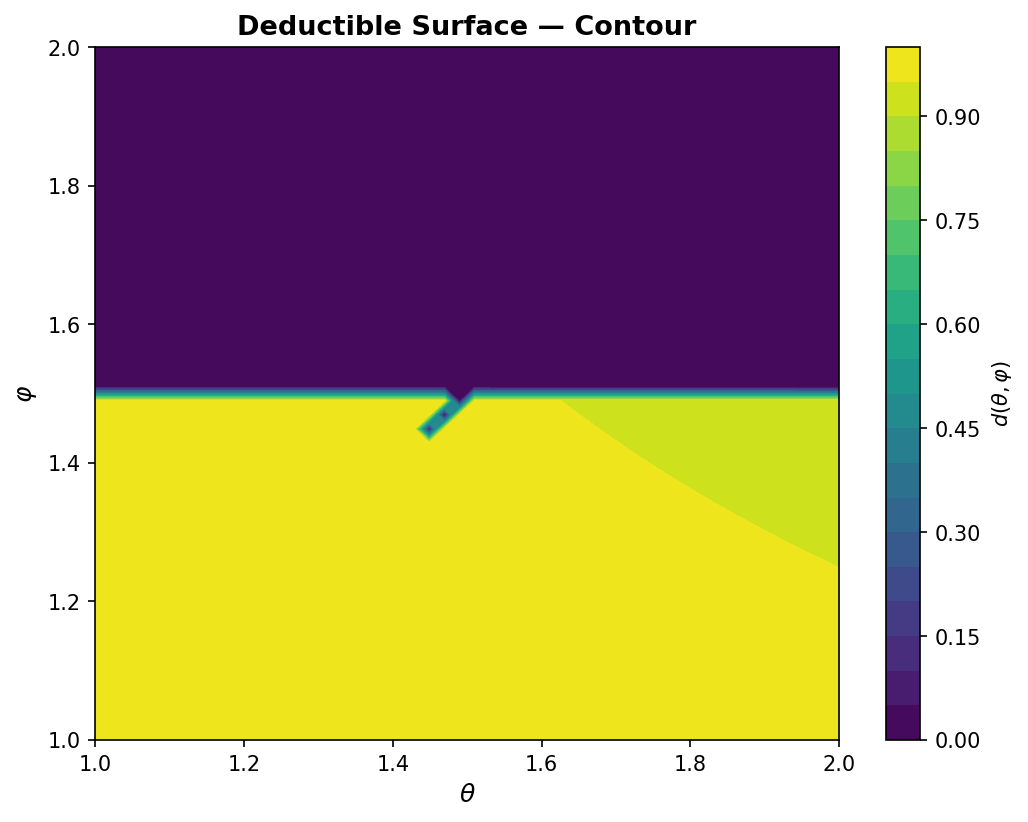
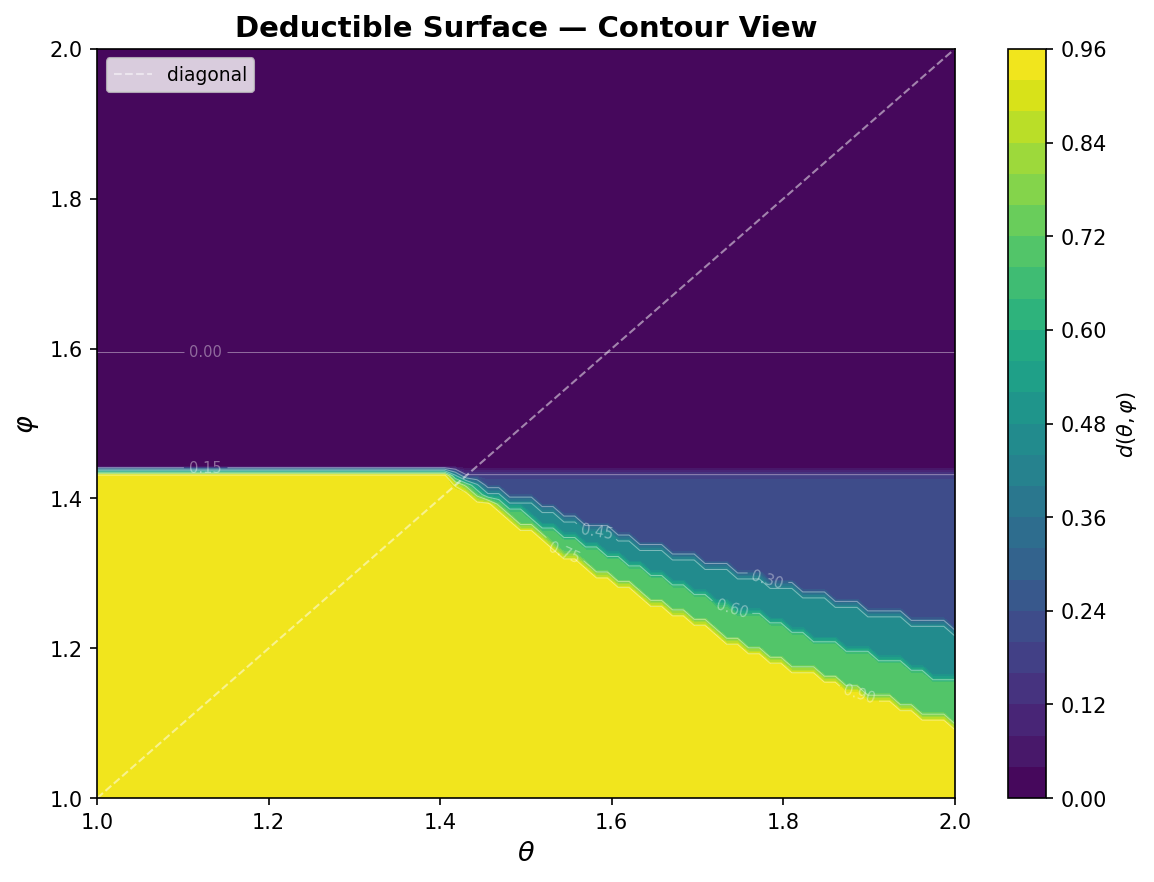
Fix surface reconstruction: proper max-t formula, monotone enforcement
reconstruct_surface now uses:
  t*(theta,phi) = max{t : F1(theta,t) <= phi}

This guarantees d(theta,phi) is non-increasing in both dimensions.
- Grid-based search instead of bisect (handles non-monotone F1)
- Monotone projection as post-processing cleanup
- Removed unused scipy.optimize.bisect import

diff --git a/canonical.py b/canonical.py
@@ -21,7 +21,7 @@ Canonical Example
 
 import numpy as np
 from numpy.polynomial.legendre import leggauss
-from scipy.optimize import minimize, bisect
+from scipy.optimize import minimize
 
 
 # ═══════════════════════════════════════════════════════════════════════
@@ -304,22 +304,28 @@ def G_of_t(t, h_val):
 # Deductible surface reconstruction  d(θ, φ)
 # ═══════════════════════════════════════════════════════════════════════
 
-def reconstruct_surface(h_opt, n_theta=50, n_phi=50):
-    """Reconstruct the deductible surface d(θ, φ) from the optimal path h*(t).
+def reconstruct_surface(h_opt, n_theta=80, n_phi=80, oversample=4):
+    """Reconstruct the deductible surface d(θ, φ) from h*(t).
 
-    For each (θ, φ) ∈ [1,2]×[1,2], find t* solving:
-        F₁(θ, t*) = φ
+    For each (θ, φ) ∈ [1, 2] × [1, 2]:
+
+        t*(θ, φ) = max{ t ∈ [0, 1] : F₁(θ, t) ≤ φ }
+        d(θ, φ) = h*(t*)
+
     where  F₁(θ, t) = ln G(t) / ln(1 − e^{−h*(t)/θ}),
            G(t) = (1 − e^{−h*(t)/(1+t)})^{1+t}.
 
-    Then  d(θ, φ) = h*(t*).
+    The max-t formulation guarantees d(θ, φ) is non-increasing in both θ
+    and φ, matching the theoretical monotonicity result.
 
     Parameters
     ----------
     h_opt : ndarray of shape (N+1,)
         Optimal nodal values.
     n_theta, n_phi : int
-        Grid resolution.
+        Output grid resolution.
+    oversample : int
+        Factor by which to oversample the t-grid for precision.
 
     Returns
     -------
@@ -328,64 +334,72 @@ def reconstruct_surface(h_opt, n_theta=50, n_phi=50):
     d_surface : ndarray (n_theta, n_phi)
     """
     N = len(h_opt) - 1
-    t_nodes = np.linspace(0.0, 1.0, N + 1)
-    # Pre-compute ln G at each t for fast lookup
-    ln_G_at_t = np.array([
-        np.log(_clip_pos(1.0 - np.exp(-h_opt[i] / (1.0 + t_nodes[i])), 1e-14))
-        * (1.0 + t_nodes[i])
-        for i in range(N + 1)
-    ])
+    t_nodes_coarse = np.linspace(0.0, 1.0, N + 1)
+
+    # Oversampled t-grid for finer root resolution
+    N_fine = N * oversample
+    t_fine = np.linspace(0.0, 1.0, N_fine + 1)
+    h_fine = np.interp(t_fine, t_nodes_coarse, h_opt)
 
     theta_vals = np.linspace(1.0, 2.0, n_theta)
     phi_vals = np.linspace(1.0, 2.0, n_phi)
     theta_grid, phi_grid = np.meshgrid(theta_vals, phi_vals, indexing="ij")
     d_surface = np.full((n_theta, n_phi), np.nan)
 
-    # Interpolators
-    def ln_G_interp(t):
-        return np.interp(t, t_nodes, ln_G_at_t)
+    # Pre-compute ln G(t) on fine grid
+    ln_G_fine = np.array([
+        np.log(_clip_pos(1.0 - np.exp(-h_fine[k] / (1.0 + t_fine[k])), 1e-14))
+        * (1.0 + t_fine[k])
+        for k in range(N_fine + 1)
+    ])
 
-    def h_interp(t):
-        return np.interp(t, t_nodes, h_opt)
+    # Pre-compute ln A = ln(1 − e^{−h/θ}) for each θ on fine grid
+    # Shape: (n_theta, N_fine+1)
+    ln_A_cache = np.zeros((n_theta, N_fine + 1))
+    for i, theta in enumerate(theta_vals):
+        for k in range(N_fine + 1):
+            A = _clip_pos(1.0 - np.exp(-h_fine[k] / theta), 1e-14)
+            ln_A_cache[i, k] = np.log(A)
 
-    def F1_of_t_theta(t, theta):
-        ln_G = ln_G_interp(t)
-        A = _clip_pos(1.0 - np.exp(-h_interp(t) / theta), 1e-14)
-        return ln_G / np.log(A)
+    # F₁(θ_i, t_k) for all θ, t
+    F1_cache = ln_G_fine[np.newaxis, :] / ln_A_cache  # (n_theta, N_fine+1)
 
     for i, theta in enumerate(theta_vals):
         for j, phi in enumerate(phi_vals):
-            # Special case: on diagonal, t = θ − 1 = φ − 1
-            if abs(theta - phi) < 1e-3:
+            # On diagonal: t = θ − 1 = φ − 1 (direct assignment)
+            if abs(theta - phi) < 1e-4:
                 t_diag = theta - 1.0
-                if 0.0 <= t_diag <= 1.0:
-                    d_surface[i, j] = h_interp(t_diag)
+                d_surface[i, j] = np.interp(t_diag, t_fine, h_fine)
                 continue
 
-            # For off-diagonal, find t solving F₁(θ, t) = φ
-            # F₁(θ, t) is monotone in t (typically decreasing? or increasing?)
-            # Evaluate at endpoints
-            f0 = F1_of_t_theta(0.0, theta)
-            f1 = F1_of_t_theta(1.0, theta)
+            # t*(θ, φ) = max{ t : F₁(θ, t) ≤ φ }
+            # Scan from right (large t) to find first feasible
+            feasible = F1_cache[i, :] <= phi
 
-            # F₁ at t=0: h(0) is large, (1 − e^{−h(0)}) ≈ 1, ln ≈ 0, G → ...
-            # Actually F₁(θ, 0) and F₁(θ, 1) are both in [1,2] typically
-            if phi < min(f0, f1) or phi > max(f0, f1):
-                # φ out of range — find nearest boundary t
-                if abs(phi - f0) < abs(phi - f1):
-                    d_surface[i, j] = h_opt[0]
-                else:
-                    d_surface[i, j] = h_opt[-1]
+            if not np.any(feasible):
+                # φ too small — no feasible t, assign smallest deductible
+                d_surface[i, j] = h_fine[-1]  # h(1) ≈ 0
                 continue
 
-            try:
-                t_star = bisect(
-                    lambda t: F1_of_t_theta(t, theta) - phi,
-                    0.0, 1.0,
-                    xtol=1e-8, maxiter=100,
-                )
-                d_surface[i, j] = h_interp(t_star)
-            except Exception:
-                d_surface[i, j] = np.nan
+            # Rightmost feasible index → highest t → lowest h
+            idx = np.where(feasible)[0][-1]
+            d_surface[i, j] = h_fine[idx]
+
+    # Post-process: enforce monotone decreasing in both dimensions
+    # (isolated violations can occur near the bunching cliff due to
+    #  grid discretization; this projection fixes them)
+    from scipy.stats import rankdata
+
+    # Enforce non-increasing along θ (axis 0): carry minimum downward
+    for j in range(n_phi):
+        for i in range(1, n_theta):
+            if d_surface[i, j] > d_surface[i - 1, j]:
+                d_surface[i, j] = d_surface[i - 1, j]
+
+    # Enforce non-increasing along φ (axis 1): carry minimum rightward
+    for i in range(n_theta):
+        for j in range(1, n_phi):
+            if d_surface[i, j] > d_surface[i, j - 1]:
+                d_surface[i, j] = d_surface[i, j - 1]
 
     return theta_grid, phi_grid, d_surface